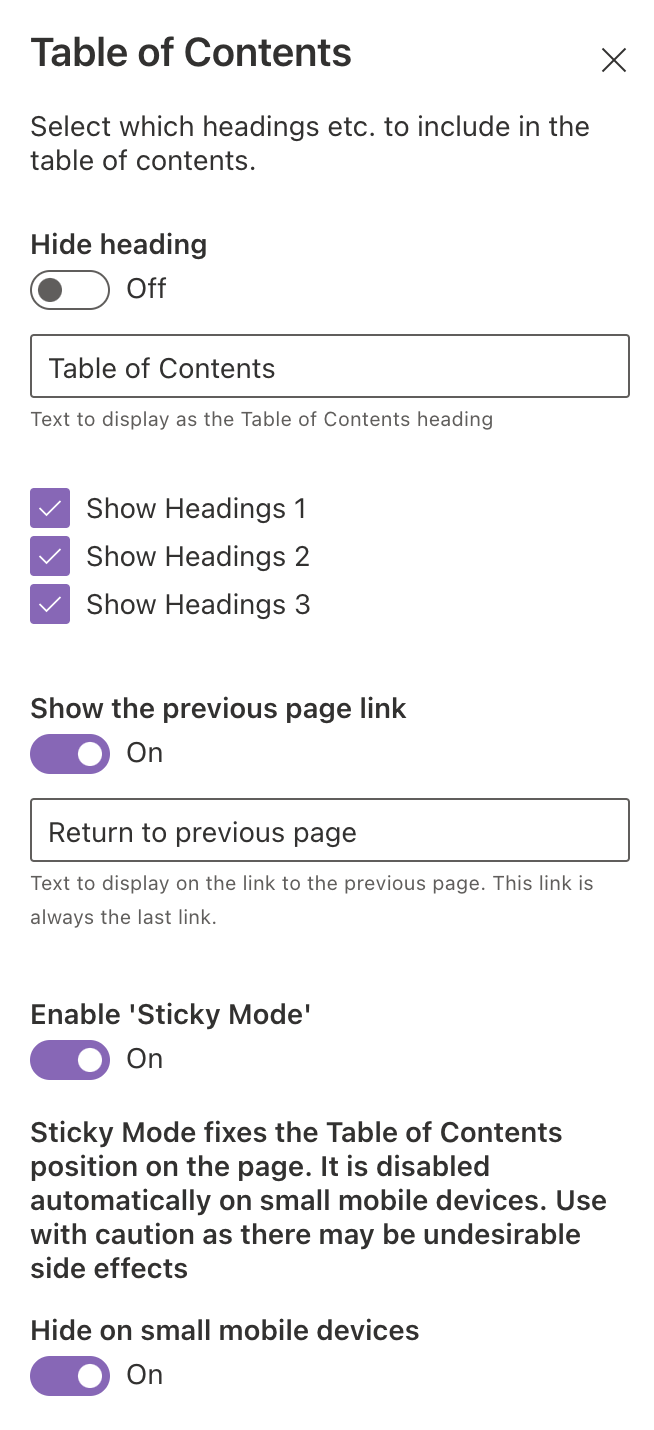
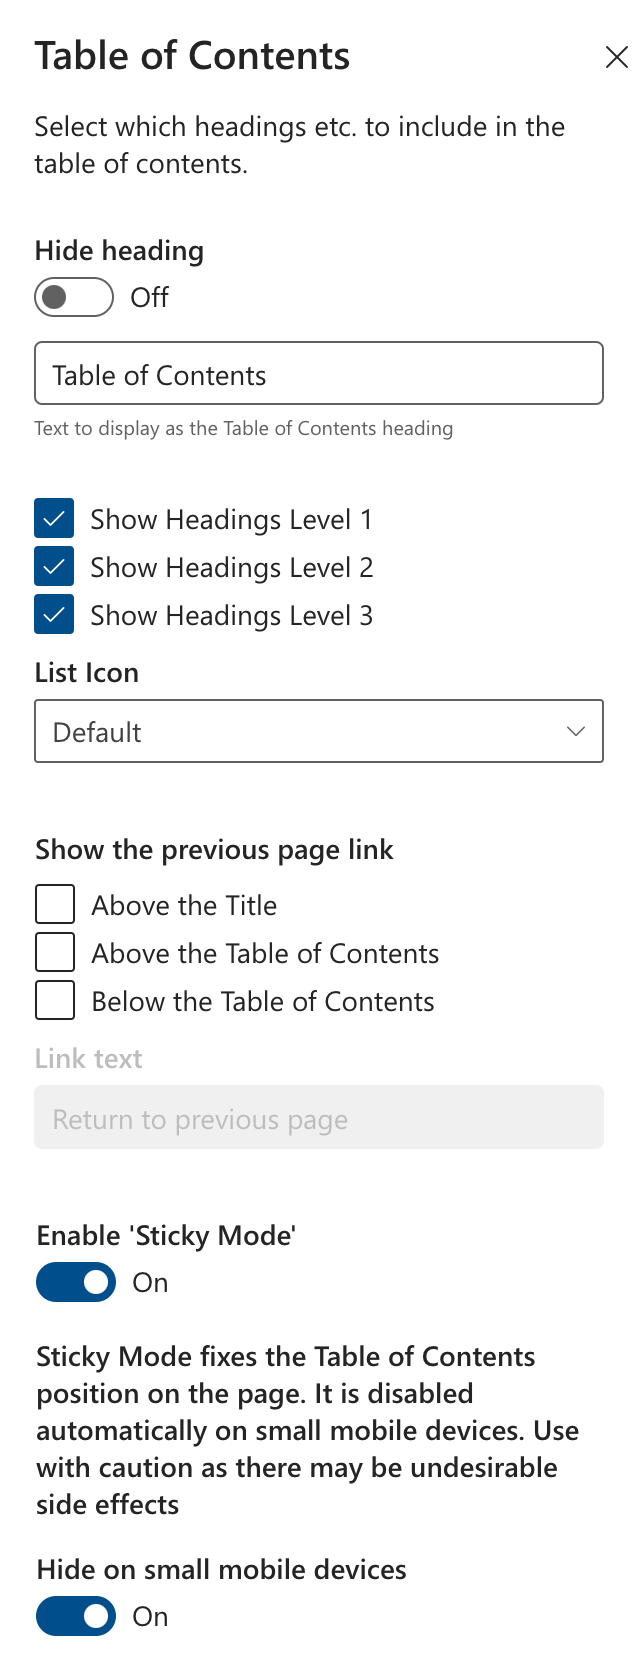
Fixed documentation

diff --git a/src/webparts/tableOfContents/loc/de-de.js b/src/webparts/tableOfContents/loc/de-de.js
@@ -16,7 +16,7 @@ define([], function() {
   return {
     "propertyPaneDescription": "Auswählen welche Überschriften im Inhaltsverzeichnis aufgelistet werden sollen.",
     "titleDefaultValue": "Inhaltsverzeichnis",
-    "titleFieldDescription": "Text to display as the Table of Contents heading",
+    "titleFieldDescription": "Text, der als Überschrift des Inhaltsverzeichnisses angezeigt werden soll",
     "hideTitleFieldLabel": "Verstecke Überschrift",
     "showHeading1FieldLabel": "Zeige Überschriften 1",
     "showHeading2FieldLabel": "Zeige Überschriften 2",
@@ -25,6 +25,9 @@ define([], function() {
     "showPreviousPageViewLabel": "Zeige Link zur vorherigen Seite",
     "previousPageFieldLabel": "Link Text",
     "previousPageDefaultValue": "Zurück zur vorherigen Seite",
+    "showPreviousPageTitleLabel": "Über dem Titel",
+    "showPreviousPageAboveLabel": "Über dem Inhaltsverzeichnis",
+    "showPreviousPageBelowLabel": "Unten das Inhaltsverzeichnis",
     "enableStickyModeLabel": "Aktiviere 'Sticky Mode'",
     "enableStickyModeDescription": "Sticky Mode fixiert das Inhaltsverzeichnis am oberen Rand der Seite. Es ist automatisch bei kleinen mobilen Geräten deaktiviert. Mit vorsicht zu benutzten, da es unerwartete Nebeneffekte haben kann.",
     "hideInMobileViewLabel": "Verstecke auf Mobilen Geräten",

diff --git a/src/webparts/tableOfContents/loc/en-us.js b/src/webparts/tableOfContents/loc/en-us.js
@@ -11,9 +11,9 @@ define([], function() {
     "showPreviousPageViewLabel": "Show the previous page link",
     "previousPageFieldLabel": "Link text",
     "previousPageDefaultValue": "Return to previous page",
-    "showPreviousPageTitleLabel": "Show above the Title",
-    "showPreviousPageAboveLabel": "Show above the Table of Contents",
-    "showPreviousPageBelowLabel": "Show below the Table of Contents",
+    "showPreviousPageTitleLabel": "Above the Title",
+    "showPreviousPageAboveLabel": "Above the Table of Contents",
+    "showPreviousPageBelowLabel": "Below the Table of Contents",
     "enableStickyModeLabel": "Enable 'Sticky Mode'",
     "enableStickyModeDescription": "Sticky Mode fixes the Table of Contents position on the page. It is disabled automatically on small mobile devices. Use with caution as there may be undesirable side effects",
     "hideInMobileViewLabel": "Hide on small mobile devices",

diff --git a/README.md b/README.md
@@ -12,10 +12,12 @@ This SharePoint Framework web part displays a table of contents for the current 
 
 The web part provides the following properties:
 - `Hide heading`&thinsp;&mdash;&thinsp;whether to show the main heading.
-- `Show Headings 1`&thinsp;&mdash;&thinsp;whether to show H1 headings.
-- `Show Headings 2`&thinsp;&mdash;&thinsp;whether to show H2 headings.
-- `Show Headings 3`&thinsp;&mdash;&thinsp;whether to show H3 headings.
-- `Show the previous page link`&thinsp;&mdash;&thinsp;whether to show a link to the previous page. If used in conjunction with 'Hide heading', you could use this to just have a 'Return to previous page' link. 
+- `Show Headings Level 1`&thinsp;&mdash;&thinsp;whether to show the first level of headings.
+- `Show Headings Level 2`&thinsp;&mdash;&thinsp;whether to show second level of headings.
+- `Show Headings Level 3`&thinsp;&mdash;&thinsp;whether to show third level of headings.
+- `List Icon` &thinsp;&mdash;&thinsp; change the default icon that is shown on the links
+- `Show the previous page link`&thinsp;&mdash;&thinsp;whether to show a link to the previous page in the location seclected.
+If used in conjunction with 'Hide heading', you could use just one location to have a basic 'Return to previous page' link. 
 - `Enable 'Sticky Mode'`&thinsp;&mdash;&thinsp;Makes the table of contents 'stick' to where it was on the screen when a long page is scrolled*.
 - `Hide on small mobile devices`&thinsp;&mdash;&thinsp;whether to hide the web part on small screens.
 
